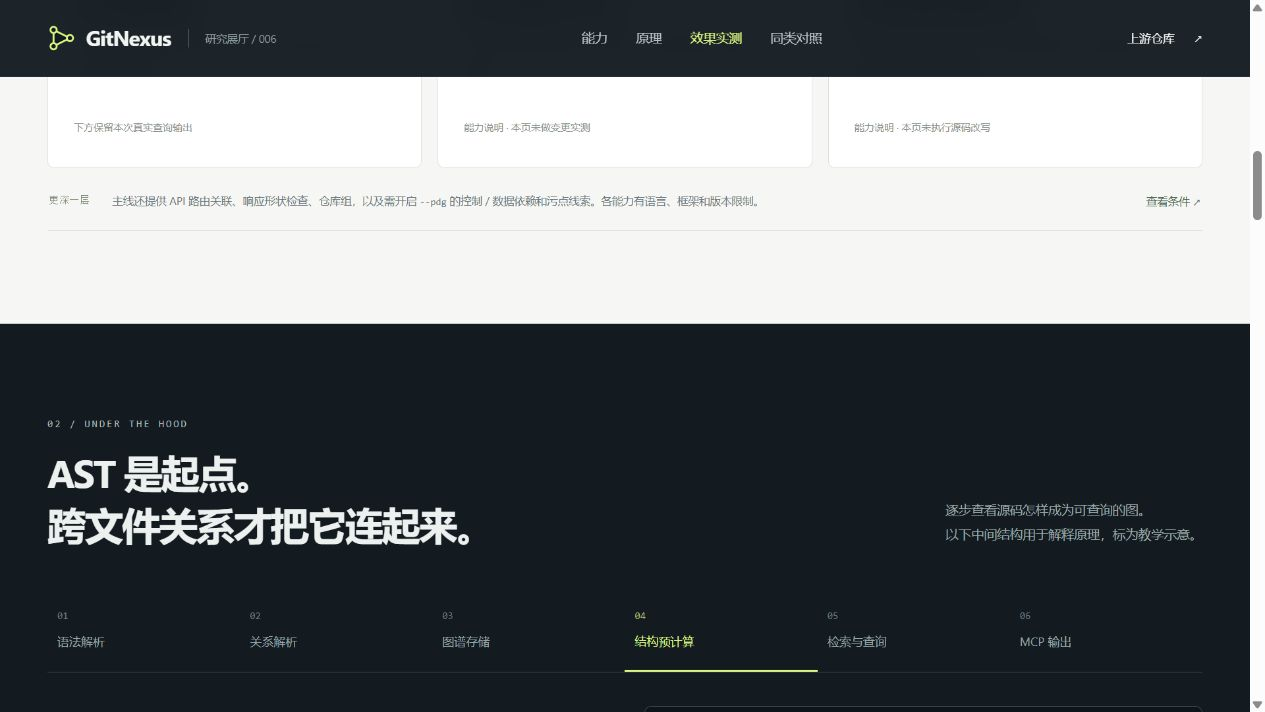
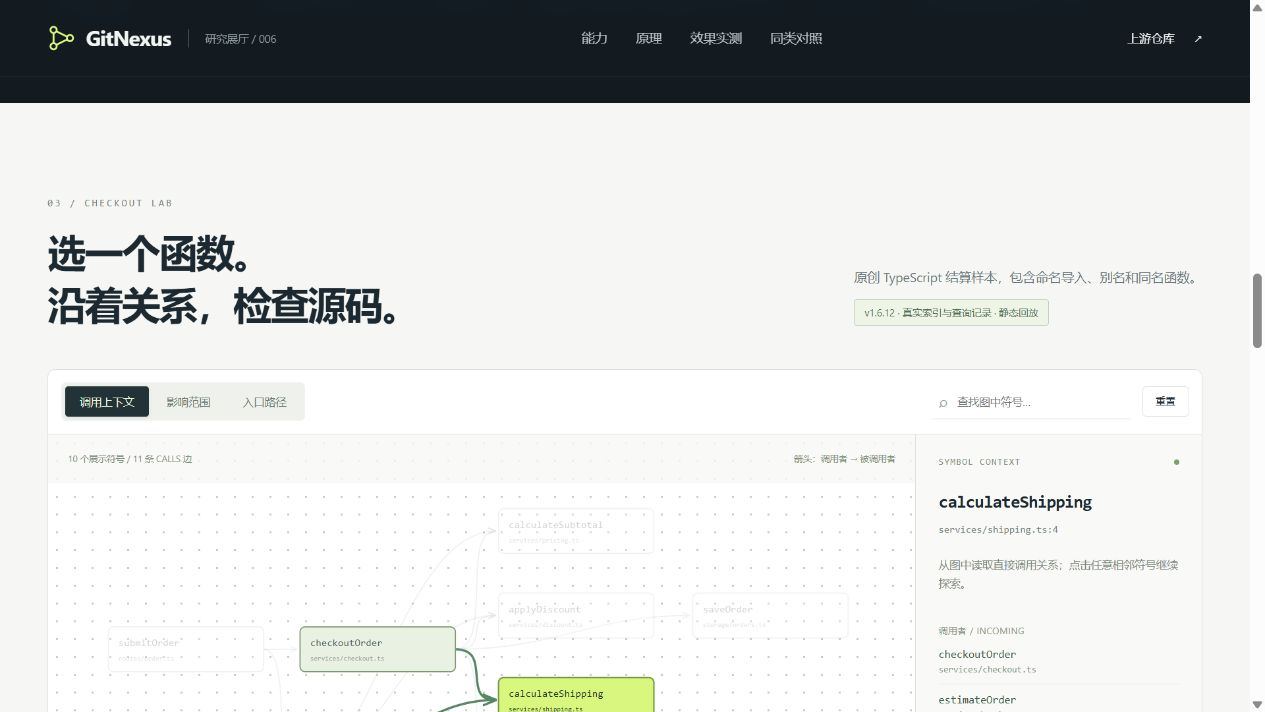
docs(gitnexus): record verified Pages URL and publication evidence

diff --git a/projects/006-gitnexus/tools/verify_deployment.py b/projects/006-gitnexus/tools/verify_deployment.py
@@ -1,0 +1,36 @@
+"""Check the published Pages entry, evidence, documents and same-origin assets."""
+from concurrent.futures import ThreadPoolExecutor
+from datetime import datetime
+from hashlib import sha256
+from pathlib import Path
+from urllib.request import Request, urlopen
+import json
+
+PROJECT = Path(__file__).resolve().parents[1]
+BASE = "https://yydshly.github.io/1015_codex_project/projects/006-gitnexus/"
+PATHS = ["", "styles.css", "app.js", "assets/evidence.json", "notes.md", "references/run-report.md", "references/sources.json", "references/context.json", "references/impact.json", "references/trace.json", "references/query.json", "references/query-before-repair.json", "references/UPSTREAM_LICENSE.txt"]
+
+
+def fetch(path):
+    with urlopen(Request(BASE + path, headers={"User-Agent":"Research-Lab-Verification"}), timeout=25) as response:
+        body = response.read()
+        return {"path":path or "index.html", "status":response.status, "bytes":len(body), "sha256":sha256(body).hexdigest()}, body
+
+
+def main():
+    responses = list(ThreadPoolExecutor(max_workers=5).map(fetch, PATHS))
+    assert all(result[0]["status"] == 200 for result in responses)
+    evidence = json.loads(responses[3][1])
+    assert evidence["status"] == "verified" and evidence["searchStatus"] == "verified"
+    assert evidence["metrics"]["nodes"] == 71 and len(evidence["edges"]) == 11
+    for i, source in [(1,"styles.css"),(2,"app.js"),(3,"assets/evidence.json")]:
+        # Git normalizes the Windows working copy's CRLF before Pages builds it.
+        assert responses[i][1].replace(b"\r\n",b"\n") == (PROJECT / "web" / source).read_bytes().replace(b"\r\n",b"\n"), source
+    assert evidence == json.loads((PROJECT / "web/assets/evidence.json").read_text(encoding="utf-8"))
+    result = {"status":"passed", "checkedAt":datetime.now().astimezone().isoformat(), "url":BASE, "responses":[row[0] for row in responses], "runtimeEvidenceMatches":True, "textAssetsMatchAfterNewlineNormalization":True, "graphNodes":71, "graphEdges":131, "businessCalls":11, "upstreamChecks":len(evidence["checks"])}
+    (PROJECT / "assets/deployed-verification.json").write_text(json.dumps(result,ensure_ascii=False,indent=2),encoding="utf-8")
+    print(json.dumps({"status":result["status"],"url":BASE,"httpChecks":len(responses),"runtimeEvidenceMatches":True},ensure_ascii=False))
+
+
+if __name__ == "__main__":
+    main()

diff --git a/README.md b/README.md
@@ -23,7 +23,7 @@
 | 003 | [ER Mario 跨游戏动作系统研究](projects/003-er-mario/README.md) | [er-mario](https://github.com/deltarooo/er-mario) | 复用 SM64 运动与动画，经碰撞、骨骼、战斗与事件适配接入法环；用艾雷教堂和七模型演示说明行为与外形解耦、减少重复开发的价值，并梳理更多角色、场景与引擎的扩展条件。 | 已完成 | [研究](projects/003-er-mario/README.md) · [演示](https://yydshly.github.io/1015_codex_project/projects/003-er-mario/overview.html) |
 | 004 | [Obsidian 程序化碎片变形研究](projects/004-obsidian/README.md) | [obsidian](https://github.com/iamtechartist/obsidian) | 以表面碎裂、目标采样匹配和 GPU 时间函数驱动同一批三维碎片重组，适合片头、品牌与舞台视觉；研究页扩展四种形态、48 秒声画循环和 MP4 导出，并梳理模型、音乐、数据与交互的扩展条件。 | 已完成 | [研究](projects/004-obsidian/README.md) · [演示](https://yydshly.github.io/1015_codex_project/projects/004-obsidian/#understanding) |
 | 005 | [Pulse 本地 Agent 用量统计研究](projects/005-pulse/README.md) | [Pulse](https://github.com/qunqin24/Pulse) | 读取多种 Agent 的本地日志、数据库与导出记录，校正累计值和重复消息，按模型归集 Token 与 API 等价费用；为自建用量统计模块提供采集、归因、计价和扩展参考。 | 已完成 | [研究](projects/005-pulse/README.md) · [演示](https://yydshly.github.io/1015_codex_project/projects/005-pulse/overview.html) |
-| 006 | [GitNexus 代码图谱与影响分析研究](projects/006-gitnexus/README.md) | [GitNexus](https://github.com/abhigyanpatwari/GitNexus) | 以 AST 和语言规则解析跨文件代码图，借助 LadybugDB 与 MCP 提供调用、影响和路径查询；网页用真实结算样本及原始输出展示能力、原理和检索恢复过程。 | 已完成 | [研究](projects/006-gitnexus/README.md) |
+| 006 | [GitNexus 代码图谱与影响分析研究](projects/006-gitnexus/README.md) | [GitNexus](https://github.com/abhigyanpatwari/GitNexus) | 以 AST 和语言规则解析跨文件代码图，借助 LadybugDB 与 MCP 提供调用、影响和路径查询；网页用真实结算样本及原始输出展示能力、原理和检索恢复过程。 | 已完成 | [研究](projects/006-gitnexus/README.md) · [演示](https://yydshly.github.io/1015_codex_project/projects/006-gitnexus/) |
 
 ### 项目预览
 

diff --git a/docs/deployment.md b/docs/deployment.md
@@ -98,3 +98,14 @@ GitHub Pages 托管静态 HTML、CSS、JavaScript 等文件。需要持久服务
 2026-10-15：内容提交 `0b8ee4c` 已推送至 main，[Pages 任务 38742663794](https://github.com/yydshly/1015_codex_project/actions/runs/38742663794) 构建与部署成功，目录校验任务亦通过。[在线研究总览](https://yydshly.github.io/1015_codex_project/projects/004-obsidian/#understanding) · [三维声画演示](https://yydshly.github.io/1015_codex_project/projects/004-obsidian/#demo)。
 
 已实际验证总览图、放大与章节定位、完整动画、双螺旋章节跳转、MP4 / WebM 编码能力；390px 手机页面与弹窗均无页面横向溢出。真实 URL 在成功后回填。引导 PNG 与效果原图、来源和第三方许可随页面保存；证据和线上截图位于子项目 assets/。本轮未在正式站点重新编码 48 秒影片，完整成片证据保留本地验证记录。
+
+
+## 006 · GitNexus 代码关系展厅实际发布
+
+2026-10-15：内容提交 `488397b` 已推送，[Pages 任务 38745006562](https://github.com/yydshly/1015_codex_project/actions/runs/38745006562) 构建部署成功。[在线中文展厅](https://yydshly.github.io/1015_codex_project/projects/006-gitnexus/)。
+
+源目录 `projects/006-gitnexus/web/`，汇总输出 `_site/projects/006-gitnexus/`。原生HTML/CSS/JS/SVG，无根目录新增应用依赖。网页以六步原理切换和真实结算样本CALLS子图展示代码定位、上下文、影响及路径；浏览器回放已采集结果，未在公网部署GitNexus数据库或索引服务。
+
+固定v1.6.12的实际分析为71节点、131关系、4社区和4流程；业务子图为10函数、11调用。导入别名、同名消歧、调用者、路径、业务案例和关键词检索共7项通过。FTS首次超时后修复成功，保留修复前后原始证据。未启用embedding、LLM、Wiki或PDG。
+
+线上13项HTTP检查返回200，规范换行后的脚本、样式和JSON与本地一致；1280px桌面和390px手机正常，局部源码与查询记录可用，无控制台错误。另有320px窄屏及12项本地交互检查。发布后才回填demo_url；记录在 `projects/006-gitnexus/assets/deployed-verification.json`、`assets/deployed-browser.json` 与 `verification.json`。
